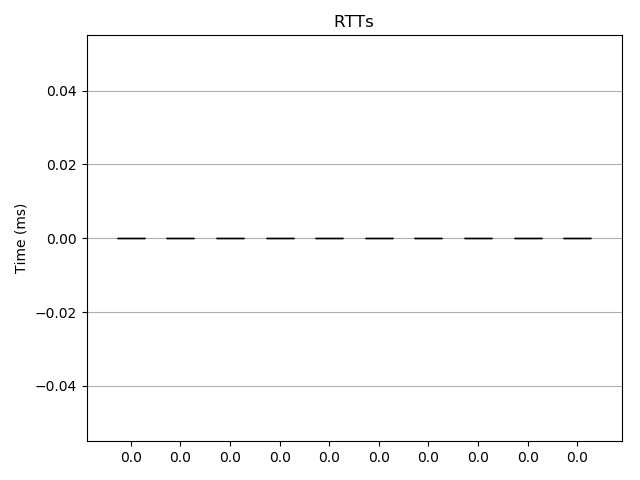
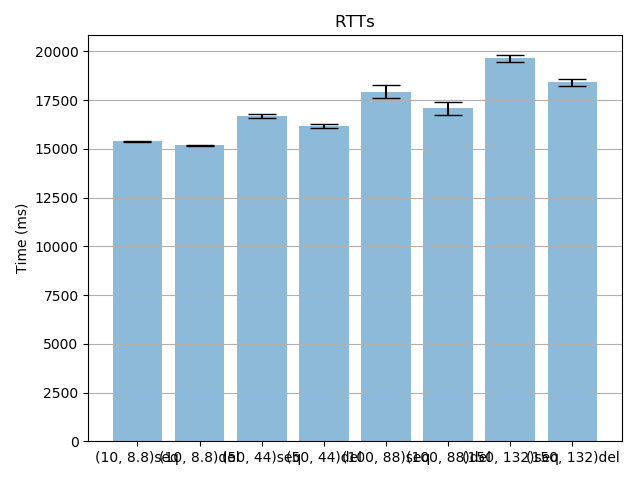
bar charts progress

diff --git a/main/mainfile.py b/main/mainfile.py
@@ -220,25 +220,39 @@ if __name__ =='__main__':
         print(bandwithseq)
         print(bandwithdel)
 
-    titles = np.array(np.zeros(repetitions*2))
-    rttmeans = np.array(np.zeros(repetitions*2))
-    rttstds = np.array(np.zeros(repetitions*2))
+    titles = []
+    rttmeans = [] #np.array(np.zeros(repetitions*2))
+    rttstds = [] #np.array(np.zeros(repetitions*2))
 
     for mean in means:
-        np.append(titles,str(mean)+"seq")
-        np.append(titles,str(mean)+"del")
+        titles.append(str(mean)+"seq")
+        titles.append(str(mean)+"del")
         rttseq = rttresult[np.logical_and(rttresult['scheme'] == 'seq', rttresult['mean'] == mean[0])]
         rttdel = rttresult[np.logical_and(rttresult['scheme'] == 'del', rttresult['mean'] == mean[0])]
-        print(rttseq)
-        print(rttdel)
+        # print(rttseq)
+        # print(rttdel)
         rttseqmean = np.mean(rttseq['value'])
         rttdelmean = np.mean(rttdel['value'])
-        np.append(rttmeans,rttseqmean)
-        np.append(rttmeans,rttdelmean)
+        # print(rttseqmean)
+        # print(rttdelmean)
+        rttmeans.append(rttseqmean)
+        rttmeans.append(rttdelmean)
         rttseqstd = np.std(rttseq['value'])
         rttdelstd = np.std(rttseq['value'])
-        np.append(rttstds,rttseqstd)
-        np.append(rttstds,rttdelstd)
+        rttstds.append(rttseqstd)
+        rttstds.append(rttdelstd)
+
+
+    print(titles)
+    print(rttmeans)
+    print(rttstds)
+    titles = np.array(titles)
+    rttmeans = np.array(rttmeans)
+    rttstds = np.array(rttstds)
+
+    print(titles)
+    print(rttmeans)
+    print(rttstds)
 
     x_pos = np.arange(len(titles))
     fig, ax = plt.subplots()

diff --git a/main/Server.py b/main/Server.py
@@ -24,7 +24,6 @@ class Server(Thread):
         self.load = load
         self.ackdelay = ackdelay
         self.bandwith = bandwith
-        print(self.bandwith)
         self._stopevent = threading.Event(  )
 
 
